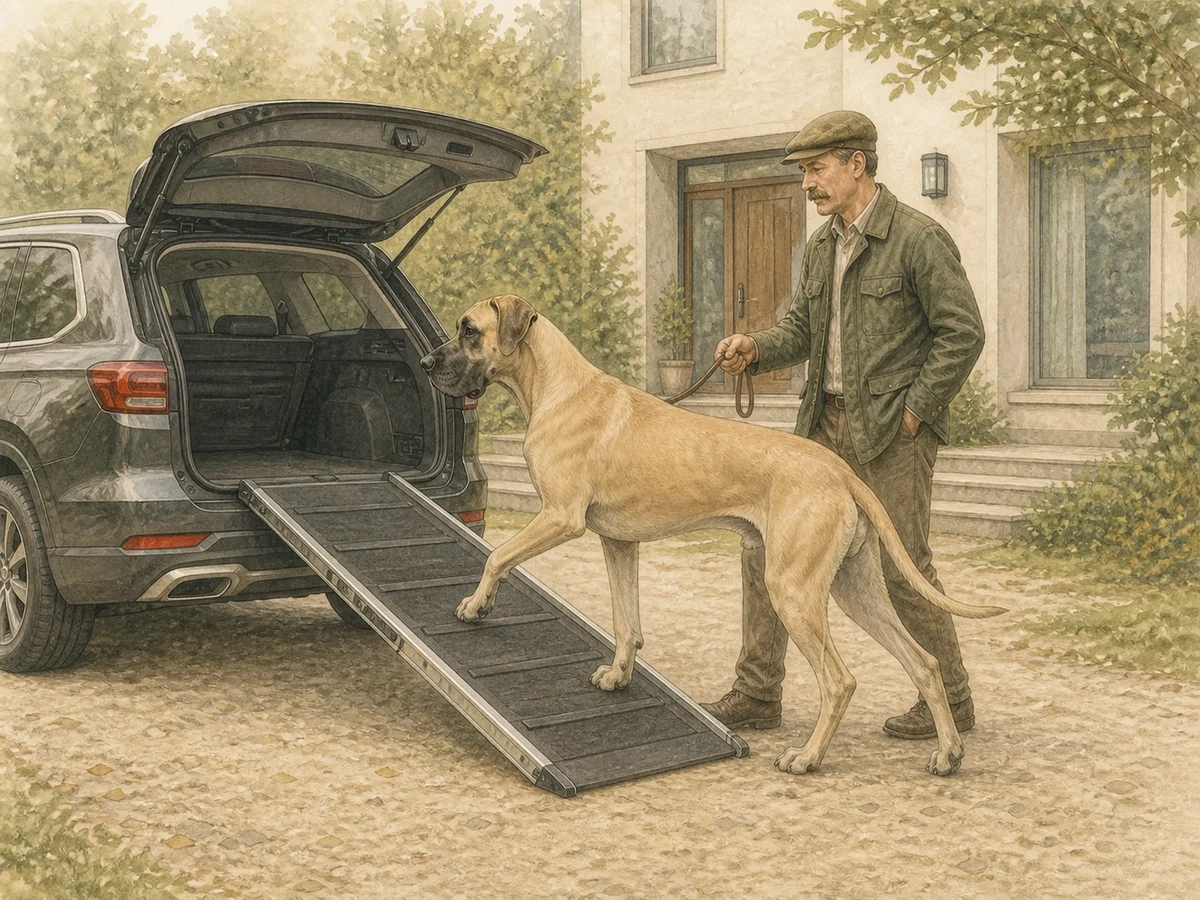
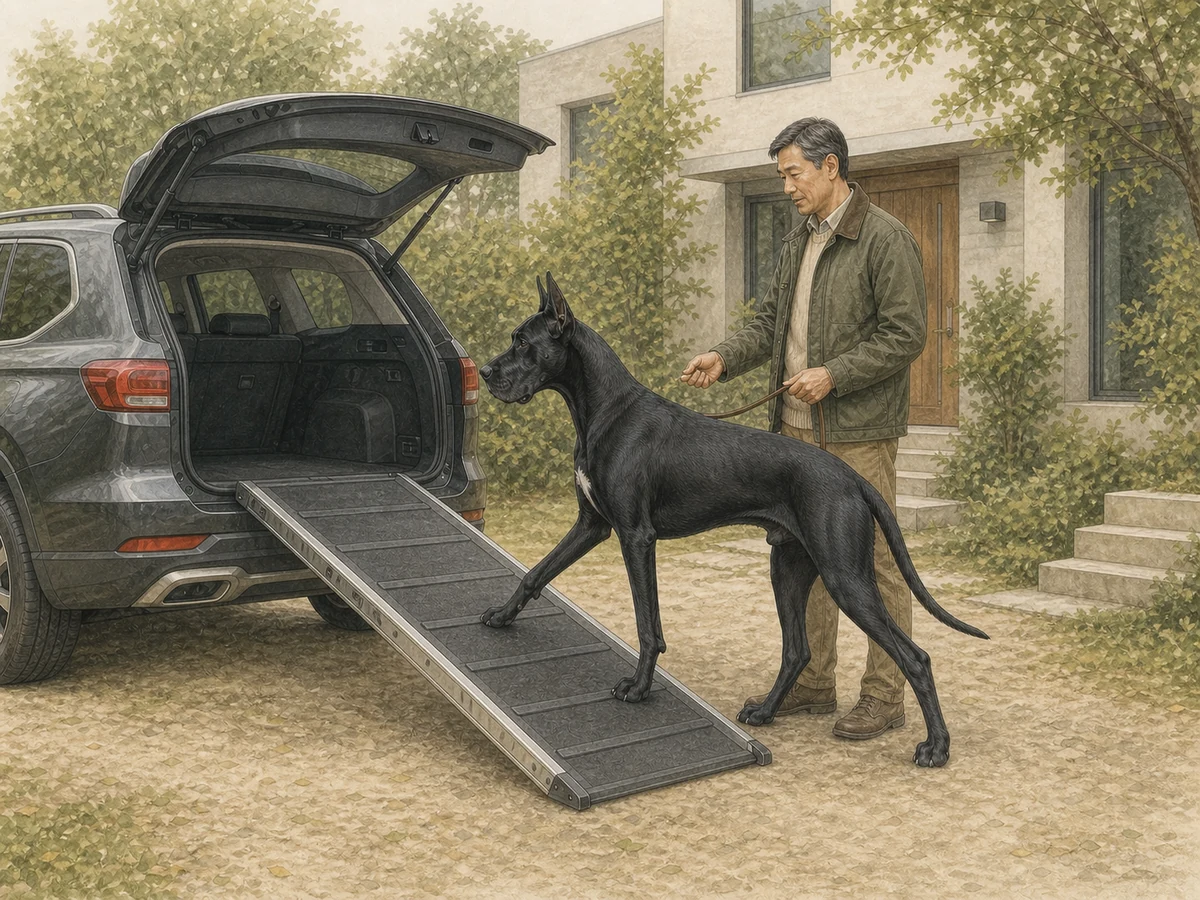
그레이트 덴 상세 이미지와 통제 현실 교정

diff --git a/src/content/breeds/detail-batch-d.ts b/src/content/breeds/detail-batch-d.ts
@@ -20,7 +20,7 @@ const drafts: Draft[] = [
   { slug: "australian-shepherd", nameKo: "오스트레일리안 셰퍼드", nameEn: "Australian Shepherd", tagline: "이름과 달리 미국 목장에서 정립된, 사람의 신호와 가축의 움직임을 오래 읽어 온 활동적인 목양견이에요.", group: "herding", tags: ["미국 목장견", "높은 활동량", "지속적인 협업"], colors: ["#8d756b", "#d5e0d6", "#30383a"], origin: "미국", lineage: "미국 서부 목장에서 정립된 목양견", role: "가축을 이동시키고 목장 일에 협력한 작업견", size: "중형 · 약 46~58cm", lifespan: "10년 이상(RKC 참고, 개체별 차이 있음)", history: "넓은 목장에서 가축의 흐름을 읽고 먼 거리에서도 사람의 신호에 맞춰 오래 움직였습니다.", present: "움직임을 통제하려 하거나 과제가 없을 때 스스로 일을 만들 수 있지만 양육 환경과 개체 경험의 영향이 커요.", guide: "달리기만 반복하기보다 냄새 탐색, 신호 구분, 멈춤과 휴식을 한 세트로 구성해 흥분을 낮추는 능력도 길러 주세요.", storyOpening: "오스트레일리안 셰퍼드의 이름에는 여러 지역을 거친 목양견의 이동 역사가 남아 있지만, 오늘날 알려진 품종은 미국에서 정립됐습니다. 19세기 후반부터 20세기 미국 서부 목장에서 다양한 가축을 이동시키고 목장주와 오래 협력할 수 있는 다목적 작업견으로 발전했습니다.", storyContinuation: "넓은 목장에서 가축의 흐름을 읽고 먼 거리의 신호에 맞춰 방향을 바꾸는 능력, 민첩하고 지구력 있는 중형 체형이 중요하게 여겨졌습니다. 현재는 반려견과 여러 활동 분야에서 만나며 움직이는 대상을 세밀하게 살피거나 계속할 과제를 찾는 모습이 개체에 따라 나타날 수 있어요.", reality: "예쁜 털색만 보고 선택하기에는 활동과 학습 요구가 큽니다. 매일 함께할 시간과 과제를 현실적으로 확보해야 해요.", care: ["성장기에는 과도한 점프보다 균형 잡힌 평지 활동을 제공하세요.", "아이·자전거·다른 동물을 모으려는 행동은 안전거리와 대체 과제로 관리하세요.", "운동 뒤 스스로 쉬는 연습도 일상 루틴에 함께 포함하세요."], levels: ["높은 편","높은 편","중간","높은 편","높은 편","중간"], related: ["border-collie","shetland-sheepdog"], relatedCopy: ["높은 협업 욕구를 공유하지만 집중 방식과 개체별 리듬을 비교해요.","목양견의 공통점과 체격·피모 관리 부담의 차이를 볼 수 있어요."], fci: "342g01-en.pdf", rkc: "pastoral/australian-shepherd" },
   { slug: "rottweiler", nameKo: "롯트와일러", nameEn: "Rottweiler", tagline: "강한 인상보다 먼저, 가축과 짐을 지키며 사람 곁에서 침착하게 힘을 쓰던 작업견의 책임을 봐야 해요.", group: "guardian-working", tags: ["가축 몰이 배경", "큰 힘", "신중한 사회화"], colors: ["#766151", "#d9d6c8", "#292a27"], origin: "독일·로트바일", lineage: "로마 시대 몰이견 계통에서 독일 남부 작업견으로 정립", role: "가축 이동·경비와 수레 운반을 돕던 작업견", size: "대형 · 약 56~69cm", lifespan: "10년 이상(RKC 참고, 개체별 차이 있음)", history: "가축을 이동시키고 재산을 지키며 때로는 짐을 끄는 일에서 침착한 힘과 사람과의 협력이 요구됐습니다.", present: "낯선 상황을 신중히 관찰하거나 몸으로 공간을 통제할 수 있으나 품종만으로 공격성을 예측할 수는 없어요.", guide: "어릴 때부터 안전한 거리의 다양한 경험, 보상 기반 핸들링과 보호자가 통제할 수 있는 리드 기술을 준비하세요.", reality: "큰 힘은 작은 실수도 크게 만들 수 있습니다. 주거 규정, 교육 지원, 이동 동선과 의료비까지 입양 전에 확인해야 해요.", care: ["미끄러운 바닥을 줄이고 성장기 체중과 관절 부담을 꾸준히 확인하세요.", "낯선 사람이나 개와의 인사를 강요하지 말고 충분한 거리를 보장하세요.", "힘으로 제압하지 말고 예측 가능한 규칙과 보상으로 협력 관계를 만드세요."], levels: ["중간","중간","중간","높은 편","높은 편","낮은 편"], related: ["dobermann","boxer"], relatedCopy: ["경비·작업 배경을 공유하지만 체형과 반응 방식의 차이를 비교해요.","독일 작업견 사이의 활동성과 관계 형성 방식을 살펴보세요."], fci: "147g02-en.pdf", rkc: "working/rottweiler" },
   { slug: "boxer", nameKo: "복서", nameEn: "Boxer", tagline: "단단한 체형과 익살스러운 표정 안에, 가족과 가까이 움직이며 경계하고 협력해 온 독일 작업견의 활력이 있어요.", group: "guardian-working", tags: ["독일 작업견", "활기찬 교감", "더위 주의"], colors: ["#c58d62", "#e5ddc9", "#493529"], origin: "독일", lineage: "불렌바이서 계통을 바탕으로 19세기 말 정립", role: "사냥 보조에서 경비·작업견으로 전환", size: "중대형 · 약 53~63cm", lifespan: "10년 이상(RKC 참고, 개체별 차이 있음)", history: "큰 사냥감을 붙잡던 불렌바이서 계통에서 이어져, 이후 가축 상인과 정육업자를 돕고 사람과 재산을 지키는 작업견으로 정립됐습니다.", present: "가족과 몸으로 놀고 적극적으로 참여하려 할 수 있지만 흥분 수준과 타인에 대한 반응은 개체마다 달라요.", guide: "짧고 즐거운 훈련과 차분한 휴식을 번갈아 제공하고, 더운 날에는 호흡과 활동 시간을 세심히 조절하세요.", reality: "짧은 주둥이와 탄탄한 몸은 더위와 운동 강도를 더 신중히 봐야 한다는 뜻이기도 합니다.", care: ["더운 날과 습한 날에는 짧게 활동하고 호흡 회복 상태를 확인하세요.", "사람에게 뛰어오르는 행동은 어릴 때부터 네 발을 바닥에 두는 연습으로 바꿔 주세요.", "성장기 관절에 부담이 되는 반복 점프와 미끄러운 바닥을 줄이세요."], levels: ["높은 편","중간","중간","높은 편","중간","낮은 편"], related: ["rottweiler","boston-terrier"], relatedCopy: ["독일 작업견이라는 공통점과 체형·활동 리듬을 비교해요.","짧은 주둥이의 공통점과 체격 및 운동 부담의 큰 차이를 살펴보세요."], fci: "144g02-en.pdf", rkc: "working/boxer" },
-  { slug: "great-dane", nameKo: "그레이트 덴", nameEn: "Great Dane", tagline: "압도적인 키 뒤에는 사냥과 영지 경비에서 사람 곁을 지켜 온 대형견의 역사와 거대한 일상 비용이 있어요.", group: "guardian-working", tags: ["초대형 체격", "독일계 대형견", "생활 공간 점검"], colors: ["#b69a78", "#dde1d7", "#393b39"], origin: "독일", lineage: "대형 사냥견과 마스티프형 계통을 바탕으로 정립", role: "큰 사냥감 추적과 영지 경비, 동반 역할", size: "초대형 · 약 72~90cm", lifespan: "10년 미만이 흔함(RKC 참고, 개체별 차이 있음)", history: "큰 사냥감을 상대하고 영지를 지키는 역할에서 긴 다리, 힘, 사람 곁에서의 침착함이 중요했습니다.", present: "가정에서는 사람 가까이 머무는 온화한 모습을 보일 수 있지만 체격만으로도 이동과 통제에 큰 준비가 필요해요.", guide: "넓고 미끄럽지 않은 동선, 큰 침대와 차량 이동 수단을 준비하고 성장기 운동과 급여를 수의사와 상의하세요.", reality: "차분해 보여도 초대형견의 식비·의료비·수명·주거 제약은 큽니다. 감당 가능한지를 외모보다 먼저 판단해야 해요.", care: ["성장기에는 대형견용 영양과 체형을 수의사와 정기적으로 확인하세요.", "미끄러운 바닥과 급격한 계단 이동을 줄이고 넉넉한 회전 공간을 확보하세요.", "식사 전후의 격한 운동을 피하고 갑작스러운 복부 팽창은 즉시 진료받으세요."], levels: ["중간","중간","중간","높은 편","중간","낮은 편"], related: ["greyhound","bernese-mountain-dog"], relatedCopy: ["긴 다리의 대형견이지만 역사와 활동 리듬이 어떻게 다른지 비교해요.","큰 체격이 만드는 공간·건강·비용 부담을 같은 기준으로 살펴보세요."], fci: "235g02-en.pdf", rkc: "working/great-dane" },
+  { slug: "great-dane", nameKo: "그레이트 덴", nameEn: "Great Dane", tagline: "압도적인 키 뒤에는 사냥과 영지 경비에서 사람 곁을 지켜 온 대형견의 역사와 거대한 일상 비용이 있어요.", group: "guardian-working", tags: ["초대형 체격", "독일계 대형견", "생활 공간 점검"], colors: ["#b69a78", "#dde1d7", "#393b39"], origin: "독일", lineage: "대형 사냥견과 마스티프형 계통을 바탕으로 정립", role: "큰 사냥감 추적과 영지 경비, 동반 역할", size: "초대형 · 약 72~90cm", lifespan: "10년 미만이 흔함(RKC 참고, 개체별 차이 있음)", history: "큰 사냥감을 상대하고 영지를 지키는 역할에서 긴 다리, 힘, 사람 곁에서의 침착함이 중요했습니다.", present: "가정에서는 사람 가까이 머무는 온화한 모습을 보일 수 있지만 체격만으로도 이동과 통제에 큰 준비가 필요해요.", guide: "넓고 미끄럽지 않은 동선과 큰 침대·차량 이동 수단을 준비하고, 느슨한 리드 걷기·방향 전환·현관 대기를 보상으로 연습하세요.", reality: "온화해 보여도 긴 보폭과 큰 힘으로 움직인 뒤에는 힘만으로 되돌리기 어렵습니다. 산책·출입 통제 훈련과 식비·의료비·주거 제약을 함께 감당할 수 있는지 외모보다 먼저 판단해야 해요.", care: ["성장기에는 대형견용 영양과 체형을 수의사와 정기적으로 확인하세요.", "미끄러운 바닥과 급격한 계단 이동을 줄이고, 느슨한 리드·방향 전환·현관 대기를 보상으로 연습하세요.", "식사 전후의 격한 운동을 피하고 갑작스러운 복부 팽창은 즉시 진료받으세요."], levels: ["중간","중간","중간","높은 편","중간","낮은 편"], related: ["greyhound","bernese-mountain-dog"], relatedCopy: ["긴 다리의 대형견이지만 역사와 활동 리듬이 어떻게 다른지 비교해요.","큰 체격이 만드는 공간·건강·비용 부담을 같은 기준으로 살펴보세요."], fci: "235g02-en.pdf", rkc: "working/great-dane" },
   { slug: "alaskan-malamute", nameKo: "알래스칸 말라뮤트", nameEn: "Alaskan Malamute", tagline: "늑대를 닮은 외모보다 먼저, 북극권에서 무거운 짐을 오래 옮긴 힘과 더위·탈출 관리의 현실을 봐야 해요.", group: "northern-working", tags: ["북극권 운반견", "강한 지구력", "두꺼운 이중모"], colors: ["#87918e", "#dce5df", "#303b3d"], origin: "미국·알래스카", lineage: "알래스카 원주민 공동체와 살아온 북방 스피츠형 썰매견", role: "무거운 화물과 썰매를 장거리로 운반", size: "대형 · 약 58~64cm", lifespan: "10년 이상(RKC 참고, 개체별 차이 있음)", history: "혹독한 북극 환경에서 공동체와 함께 무거운 짐을 안정적으로 옮기는 힘과 지구력이 중요했습니다.", present: "당기는 힘과 탐색·굴파기 욕구가 생활에서 나타날 수 있지만 개체의 경험과 환경에 따라 정도가 달라요.", guide: "선선한 시간에 꾸준히 움직이고, 튼튼한 장비와 탈출 방지 울타리, 파도 괜찮은 탐색 공간을 마련하세요.", reality: "산책 횟수만 늘리는 것으로 충분하지 않아요. 더위, 큰 힘, 털갈이와 다른 동물에 대한 실제 반응을 함께 관리해야 합니다.", care: ["기온과 습도가 높은 시간에는 활동을 피하고 시원한 실내를 유지하세요.", "문·울타리 아래와 잠금 장치를 확인해 탈출과 굴파기를 예방하세요.", "작은 동물과의 동거는 품종 이미지가 아닌 해당 개체의 실제 반응으로 판단하세요."], levels: ["높은 편","중간","높은 편","높은 편","중간","높은 편"], related: ["samoyed","akita"], relatedCopy: ["북방 작업견의 공통점과 운반·교감 방식의 차이를 비교해요.","대형 스피츠 사이의 활동, 관계, 더위 관리 부담을 살펴보세요."], fci: "243g05-en.pdf", rkc: "working/alaskan-malamute" },
   { slug: "jack-russell-terrier", nameKo: "잭 러셀 테리어", nameEn: "Jack Russell Terrier", tagline: "작은 몸 안에 땅속 목표를 끝까지 찾던 테리어의 속도와 집요함이 있어, 귀여움보다 할 일을 먼저 준비해야 해요.", group: "companion", tags: ["굴 사냥 테리어", "높은 추적 욕구", "작지만 활동적"], colors: ["#d4b486", "#e4e0ce", "#473a2f"], origin: "영국·잉글랜드", lineage: "19세기 폭스테리어 계통에서 발달", role: "여우를 굴에서 찾아내는 사냥 보조견", size: "소형 · 약 25~30cm", lifespan: "12년 이상(RKC 참고, 개체별 차이 있음)", history: "말을 탄 사냥대와 움직이며 냄새를 쫓고 좁은 굴까지 들어가 목표를 찾아내는 끈기와 민첩성이 요구됐습니다.", present: "작은 움직임을 쫓거나 땅을 파고 과제에 집요하게 몰입할 수 있지만 모든 개체의 강도는 같지 않아요.", guide: "긴 줄 산책과 냄새 찾기, 땅을 파도 되는 장소를 제공하고 흥분 뒤 자리로 돌아와 쉬는 연습을 함께 해주세요.", reality: "작은 체격은 쉬운 양육을 보장하지 않습니다. 활동과 추적 욕구를 채우지 못하면 보호자가 원치 않는 일이 생길 수 있어요.", care: ["야생동물과 작은 반려동물을 향한 추적은 리드와 울타리로 예방하세요.", "합법적이고 안전하게 땅을 팔 수 있는 대체 공간이나 노즈워크를 제공하세요.", "계속 공을 던지기보다 흥분을 낮추는 냄새 탐색과 휴식을 섞어 주세요."], levels: ["높은 편","높은 편","높은 편","중간","높은 편","낮은 편"], related: ["yorkshire-terrier","dachshund"], relatedCopy: ["작은 테리어의 빠른 반응과 활동·피모 부담 차이를 살펴보세요.","굴 사냥 배경을 공유하지만 체형과 움직임 방식은 크게 달라요."], fci: "345g03-en.pdf", rkc: "terrier/jack-russell-terrier" },
   { slug: "boston-terrier", nameKo: "보스턴 테리어", nameEn: "Boston Terrier", tagline: "단정한 턱시도 무늬와 사람 친화적인 도시 반려견의 역사 뒤에, 호흡과 눈을 세심히 볼 책임이 있어요.", group: "companion", tags: ["미국 도시 반려견", "사람과의 교감", "더위 주의"], colors: ["#9b9285", "#e6dfce", "#313332"], origin: "미국·보스턴", lineage: "19세기 미국에서 불독·테리어형 개를 바탕으로 반려견으로 정립", role: "도시 가정의 소형 반려견", size: "소형 · 약 7~11kg 이하 등급", lifespan: "10년 이상(RKC 참고, 개체별 차이 있음)", history: "보스턴의 도시 생활 속에서 사람 가까이 지내는 작고 단정한 반려견으로 점차 정립됐습니다.", present: "가족 활동에 적극적으로 참여하고 놀이를 즐길 수 있지만 호흡 능력과 흥분 회복은 개체별로 확인해야 해요.", guide: "더운 날 활동을 줄이고 목을 압박하지 않는 장비를 쓰며, 눈 주변과 호흡 소리의 변화를 일상적으로 살펴보세요.", reality: "작고 친근한 이미지가 건강 부담을 지우지는 않습니다. 외모보다 편안한 호흡과 기능적인 체형을 우선해야 해요.", care: ["더위와 습도가 높은 날에는 짧게 움직이고 호흡이 안정되는지 확인하세요.", "돌출된 눈이 가지나 거친 놀이에 다치지 않도록 환경을 정리하세요.", "코골이와 거친 숨을 정상으로 단정하지 말고 변화가 있으면 진료받으세요."], levels: ["중간","중간","중간","높은 편","중간","낮은 편"], related: ["french-bulldog","boxer"], relatedCopy: ["짧은 주둥이의 소형 반려견 사이에서 체형과 생활 부담을 비교해요.","계통의 접점과 체격·활동 요구의 큰 차이를 살펴보세요."], fci: "140g09-en.pdf", rkc: "utility/boston-terrier" },
@@ -46,6 +46,7 @@ const historyAltOverrides: Partial<Record<string, string>> = {
   "jack-russell-terrier": "말을 탄 사냥대 곁의 생울타리와 땅 냄새를 살피는 흰색과 황갈색 잭 러셀 테리어를 그린 편집 수채화",
   rottweiler: "독일 로트바일의 가축 시장과 수레 곁에서 소 떼 이동과 운반을 돕는 롯트와일러를 그린 편집 수채화",
   boxer: "19세기 말 독일의 작업장 마당에서 상인 곁을 지키는 황갈색과 흰색 복서를 그린 편집 수채화",
+  "great-dane": "19세기 독일 영지의 저택과 출입문 앞에서 관리인 곁을 지키는 검은 단모와 흰 가슴의 그레이트 덴을 그린 편집 수채화",
   newfoundland: "뉴펀들랜드 항구에서 어부에게 젖은 줄과 어망을 옮기는 검은 뉴펀들랜드를 그린 편집 수채화",
   "alaskan-malamute": "알래스카 북극권 해안 마을에서 무거운 짐을 실은 썰매를 사람과 함께 끄는 알래스칸 말라뮤트를 그린 편집 수채화",
   "boston-terrier": "미국 보스턴의 붉은 벽돌 주택가에서 가족과 함께 선 검정과 흰색 보스턴 테리어를 그린 편집 수채화",
@@ -56,7 +57,13 @@ const additionalSources: Partial<Record<string, Breed["sources"]>> = {
   "shetland-sheepdog": [{ title: "Shetland Sheepdog", organization: "American Kennel Club", url: "https://www.akc.org/dog-breeds/shetland-sheepdog/", checkedAt }, { title: "Shetland Sheepdog History", organization: "American Kennel Club", url: "https://www.akc.org/expert-advice/dog-breeds/shetland-sheepdog-history/", checkedAt: "2026-08-29" }],
   "australian-shepherd": [{ title: "Australian Shepherd", organization: "American Kennel Club", url: "https://www.akc.org/dog-breeds/australian-shepherd/", checkedAt }, { title: "Australian Shepherd History", organization: "American Kennel Club", url: "https://www.akc.org/expert-advice/dog-breeds/australian-shepherd-history/", checkedAt: "2026-08-29" }],
   "jack-russell-terrier": [{ title: "Jack Russell Terrier", organization: "The Royal Kennel Club", url: "https://www.royalkennelclub.com/jackrussellterrier", checkedAt: "2026-08-29" }],
-  "great-dane": [{ title: "Gastric Dilation and Volvulus in Small Animals", organization: "MSD Veterinary Manual", url: "https://www.msdvetmanual.com/digestive-system/surgical-problems-of-the-gastrointestinal-tract-in-small-animals/gastric-dilation-and-volvulus-in-small-animals", checkedAt: "2026-08-29" }],
+  "great-dane": [
+    { title: "Great Dane History", organization: "American Kennel Club", url: "https://www.akc.org/expert-advice/dog-breeds/great-dane-history/", checkedAt: "2026-09-01" },
+    { title: "Is the Great Dane a Good Fit for Your Lifestyle?", organization: "American Kennel Club", url: "https://www.akc.org/expert-advice/dog-breeds/great-dane-right-for-you/", checkedAt: "2026-09-01" },
+    { title: "Humane Dog Training Position Statement", organization: "American Veterinary Society of Animal Behavior", url: "https://avsab.org/wp-content/uploads/2021/08/AVSAB-Humane-Dog-Training-Position-Statement-2021.pdf", checkedAt: "2026-09-01" },
+    { title: "Professional Dog Walkers’ Guidelines", organization: "RSPCA", url: "https://www.rspca.org.uk/webContent/staticImages/Downloads/DogWalkingGuide.pdf", checkedAt: "2026-09-01" },
+    { title: "Gastric Dilation and Volvulus in Small Animals", organization: "MSD Veterinary Manual", url: "https://www.msdvetmanual.com/digestive-system/surgical-problems-of-the-gastrointestinal-tract-in-small-animals/gastric-dilation-and-volvulus-in-small-animals", checkedAt: "2026-08-29" },
+  ],
   rottweiler: [{ title: "Rottweiler History: From Working Dog to Sporting, Therapy Dog", organization: "American Kennel Club", url: "https://www.akc.org/expert-advice/dog-breeds/rottweiler-history/", checkedAt: "2026-08-29" }],
   boxer: [{ title: "Boxer History", organization: "American Kennel Club", url: "https://www.akc.org/expert-advice/dog-breeds/boxer-history/", checkedAt: "2026-08-29" }],
   newfoundland: [{ title: "Newfoundland Breed History", organization: "American Kennel Club", url: "https://www.akc.org/expert-advice/dog-breeds/newfoundland-history/", checkedAt: "2026-08-29" }],

diff --git a/src/content/standard-breed-detail/familiar-data.ts b/src/content/standard-breed-detail/familiar-data.ts
@@ -179,21 +179,21 @@ const fallbackCards: Record<string, [EditorialCard, EditorialCard, EditorialCard
       title: "차분한 움직임도 넉넉한 회전 공간과 협력 연습이 필요해요.",
       description: "사람 가까이에서 침착한 개체도 몸집만으로 가구와 사람을 밀 수 있어요. 넓은 동선에서 멈추기와 방향 바꾸기를 보상으로 짧게 연습하세요.",
       image: "/illustrations/v4/great-dane-feature-body-control.webp",
-      alt: "넓은 거실에서 보호자의 손 신호에 맞춰 천천히 방향을 바꾸는 성견 그레이트 덴 삽화",
+      alt: "넓은 거실에서 보호자의 손 신호에 맞춰 천천히 방향을 바꾸는 검은 단모와 흰 가슴의 성견 그레이트 덴 삽화",
     },
     {
       eyebrow: "초대형견 이동 동선",
       title: "차량과 병원까지 이어지는 넓은 이동 경로를 미리 준비해요.",
       description: "초대형 체격은 차량 탑승과 아픈 날의 이동에 큰 장비와 도움이 필요해요. 넓은 경사로와 미끄럽지 않은 바닥을 건강할 때부터 익혀주세요.",
       image: "/illustrations/v4/great-dane-feature-large-dog-route.webp",
-      alt: "대형 차량의 넓은 미끄럼 방지 경사로를 연습하는 성견 그레이트 덴 삽화",
+      alt: "대형 차량의 넓은 미끄럼 방지 경사로를 연습하는 검은 단모와 흰 가슴의 성견 그레이트 덴 삽화",
     },
     {
       eyebrow: "식사와 조용한 회복",
       title: "식사 전후에는 격한 움직임 대신 충분히 쉬는 흐름을 만들어요.",
       description: "큰 식사와 격한 활동이 바로 이어지지 않도록 하루 일정을 나누어야 해요. 갑작스러운 복부 팽창이나 불편이 보이면 즉시 진료가 필요해요.",
       image: "/illustrations/v4/great-dane-feature-meal-rest.webp",
-      alt: "식사 뒤 큰 낮은 침대에서 보호자 곁에 조용히 쉬는 성견 그레이트 덴 삽화",
+      alt: "식사 뒤 큰 낮은 침대에서 보호자 곁에 조용히 쉬는 검은 단모와 흰 가슴의 성견 그레이트 덴 삽화",
     },
   ],
   "saint-bernard": [
@@ -390,7 +390,7 @@ const dailyRealityTitles: Record<(typeof familiarStandardSlugs)[number], string>
   dobermann: "산책과 과제가 끝나면 하네스를 풀고 넓은 매트에서 쉬어요.",
   rottweiler: "큰 몸을 편히 펴고 보호자 곁에서 쉬는 시간이 필요해요.",
   dalmatian: "눈에 띄는 무늬보다 활동과 의사소통 준비가 먼저예요.",
-  "great-dane": "큰 몸을 완전히 펴고 방해 없이 쉴 자리가 필요해요.",
+  "great-dane": "초대형 몸은 움직인 뒤가 아니라 움직이기 전에 조율해야 해요.",
   "saint-bernard": "활동 뒤에는 큰 몸을 완전히 펴고 충분히 쉬어요.",
 };
 
@@ -450,7 +450,7 @@ const dailyRealityBodyOverrides: Partial<Record<(typeof familiarStandardSlugs)[n
   "italian-sighthound": "안전한 공간에서 짧게 움직인 뒤에는 몸을 받쳐 주는 폭신한 자리에 누워요. 보호자가 담요를 정리하는 동안 방해받지 않고 쉬게 해 주세요.",
   "jack-russell-terrier": "안전한 산책로에서 관목과 땅의 냄새를 충분히 확인하게 해요. 보호자는 리드 범위를 지키며 탐색이 끝날 때까지 서두르지 않고 기다려 주세요.",
   rottweiler: "산책과 짧은 과제가 끝나면 넓고 평평한 자리에 몸을 내려놓게 해요. 보호자 곁에서 큰 몸을 편히 펴고 방해 없이 쉬게 해 주세요.",
-  "great-dane": "몸 전체를 펴도 가장자리에 걸리지 않는 큰 잠자리를 마련해요. 가구 사이를 돌거나 일어설 때 부딪히지 않도록 휴식 자리 주변의 동선도 넓게 비워 주세요.",
+  "great-dane": "온화하고 차분한 개체도 긴 보폭과 큰 힘으로 한두 걸음 움직인 뒤에는 보호자가 힘으로 되돌리기 어려워요. 느슨한 리드 걷기·보호자에게 돌아보기·방향 전환·현관 대기를 보상으로 반복하고, 필요한 개체는 전문가와 바스켓형 입마개 적응도 준비하세요.",
   "saint-bernard": "큰 몸 전체를 받쳐 주는 서늘하고 넓은 자리를 마련해요. 활동이 끝난 뒤에는 사람의 통행에서 벗어나 몸을 편히 펴고 충분히 쉬게 해 주세요.",
 };
 
@@ -475,6 +475,7 @@ const dailyRealityImageAltOverrides: Partial<Record<(typeof familiarStandardSlug
   samoyed: "마당의 매트에 누운 성견 사모예드 곁에서 보호자가 털과 활동 장비를 정리하는 삽화",
   shiba: "나무 그늘 산책로에 누워 쉬는 적색 성견 시바와 가까이 앉은 보호자 삽화",
   rottweiler: "나무 그늘의 평평한 자리에 몸을 펴고 누운 성견 롯트와일러와 곁에 앉은 보호자 삽화",
+  "great-dane": "넓은 산책로에서 느슨한 리드로 보호자에게 돌아와 보상을 받으며 방향을 바꾸는 검은 단모와 흰 가슴의 성견 그레이트 덴 삽화",
 };
 
 const modernWorkProfiles: Partial<Record<(typeof familiarStandardSlugs)[number], NonNullable<StandardBreedDetail["modernWork"]>>> = {

diff --git a/src/content/standard-breed-detail/data.test.ts b/src/content/standard-breed-detail/data.test.ts
@@ -1436,13 +1436,24 @@ describe("standard breed detail editorial data", () => {
     ["pug", "서늘한 자기 자리"],
     ["french-bulldog", "편안한 숨"],
     ["pekingese", "낮은 자리"],
-    ["great-dane", "큰 몸을 완전히 펴고"],
     ["saint-bernard", "큰 몸을 완전히 펴고"],
   ])("keeps the $0 daily-rhythm copy aligned with its resting illustration", (slug, expectedCopy) => {
     const detail = getStandardBreedDetail(slug)!;
     const dailyRhythm = detail.story.steps.find((step) => step.image.includes("daily-rhythm"))!;
 
     expect(`${dailyRhythm.title} ${dailyRhythm.body}`).toContain(expectedCopy);
+  });
+
+  it("frames Great Dane control as preventive, reward-based giant-dog management", () => {
+    const detail = getStandardBreedDetail("great-dane")!;
+    const controlStep = detail.story.steps[2];
+
+    expect(controlStep.title).toContain("움직이기 전에 조율");
+    expect(controlStep.body).toContain("느슨한 리드 걷기");
+    expect(controlStep.body).toContain("필요한 개체");
+    expect(controlStep.image).toBe("/illustrations/v4/great-dane-feature-daily-rhythm.webp");
+    expect(getBreed("great-dane")?.sources).toContainEqual(expect.objectContaining({ organization: "American Veterinary Society of Animal Behavior" }));
+    expect(getBreed("great-dane")?.sources).toContainEqual(expect.objectContaining({ organization: "RSPCA" }));
   });
 
   it.each([

diff --git a/docs/project-status.md b/docs/project-status.md
@@ -7,6 +7,13 @@
 > 역할: 제품·디자인·코드·콘텐츠·검증 상태를 빠르게 파악하기 위한 살아 있는 문서
 > 갱신 책임: 중요한 변경을 수행한 사람 또는 AI가 같은 변경 안에서 이 문서를 함께 수정한다.
 
+### 2026-09-01 그레이트 덴 상세 이미지·3단계 통제 현실 교정
+
+- 기존 황갈색·처진 귀 개체가 남아 있던 역사·현재 경향·생활 현실 상세 이미지 5장을 대표 카드와 같은 검은 단모·흰 가슴 패치·높게 솟은 귀·긴 다리의 성견으로 전부 다시 만들었다. 모든 자산은 Codex 내장 ImageGen의 이미지 참조 모드로 생성한 뒤 1200×900 WebP로 저장했다.
+- 프롬프트 세트는 독일 영지의 역사 장면, 넓은 실내의 방향 전환, 느슨한 J자 리드의 산책 방향 전환, 넓고 낮은 차량 경사로, 식사 뒤 초대형 침대 휴식의 다섯 장면으로 구성했다. 한 장마다 성견 한 마리만 두고 돌진·제압·팽팽한 리드·강압 장비·기본 입마개 표현은 제외했다.
+- `과거에서 오늘까지`의 3단계는 휴식 자리 설명에서 초대형견의 실제 통제 준비로 교체했다. 친화적인 개체도 긴 보폭과 큰 힘으로 움직인 뒤에는 힘만으로 되돌리기 어렵다는 점을 밝히고, 느슨한 리드 걷기·보호자에게 돌아보기·방향 전환·현관 대기를 보상으로 반복하도록 썼다.
+- 입마개는 모든 그레이트 덴의 산책 기본값으로 단정하지 않고 필요한 개체가 전문가와 바스켓형에 적응하는 추가 안전 준비로만 설명했다. AKC의 그레이트 덴 역사·생활 안내, AVSAB 보상 기반 훈련 기준, RSPCA 바스켓형 입마개 지침을 직접 출처에 추가했다.
+
 ### 2026-09-01 그레이트 피레니즈 3단계 통제 현실 교정
 
 - `과거에서 오늘까지`의 세 번째 단계를 기존 야간 알림 환경 조정에서 초대형 가축보호견의 실제 통제 준비로 교체했다. 낯선 사람·개·소리에 주의를 오래 둘 수 있는 경향과 큰 몸이 움직인 뒤 힘으로 붙잡기 어려운 현실을 연결하되, 경비 역할을 공격성 보증처럼 쓰지 않았다.

diff --git a/docs/image-prompts-familiar-standard-2026-08-25.md b/docs/image-prompts-familiar-standard-2026-08-25.md
@@ -61,11 +61,12 @@ Avoid: photorealism, cartoon exaggeration, cropped anatomy, duplicate limbs, and
   - `dalmatian-feature-hand-signal.webp`
   - `dalmatian-feature-safe-running.webp`
   - `dalmatian-feature-daily-rhythm.webp`
-- 그레이트 덴: 초대형 몸의 방향 전환, 차량 경사로, 식사 뒤 조용한 휴식, 넓은 보행 동선
+- 그레이트 덴: 초대형 몸의 실내 방향 전환, 차량 경사로, 식사 뒤 조용한 휴식, 느슨한 리드 방향 전환
   - `great-dane-feature-body-control.webp`
   - `great-dane-feature-large-dog-route.webp`
   - `great-dane-feature-meal-rest.webp`
   - `great-dane-feature-daily-rhythm.webp`
+  - 2026-09-01 재생성: 대표 카드와 같은 검은 단모·흰 가슴 패치·솟은 귀·긴 다리의 성견 한 마리로 역사 1장과 위 상세 4장을 모두 교체했다. 3단계 장면은 넓은 산책로의 느슨한 J자 리드, 보호자 재집중과 방향 전환을 담았고 입마개는 모든 개체의 기본 장비처럼 보이지 않도록 이미지에서 제외했다.
 - 세인트 버나드: 사람 곁의 큰 휴식 자리, 더위 회복, 차량 경사로, 서늘한 시간의 보행
   - `saint-bernard-feature-companionship.webp`
   - `saint-bernard-feature-heat-recovery.webp`
